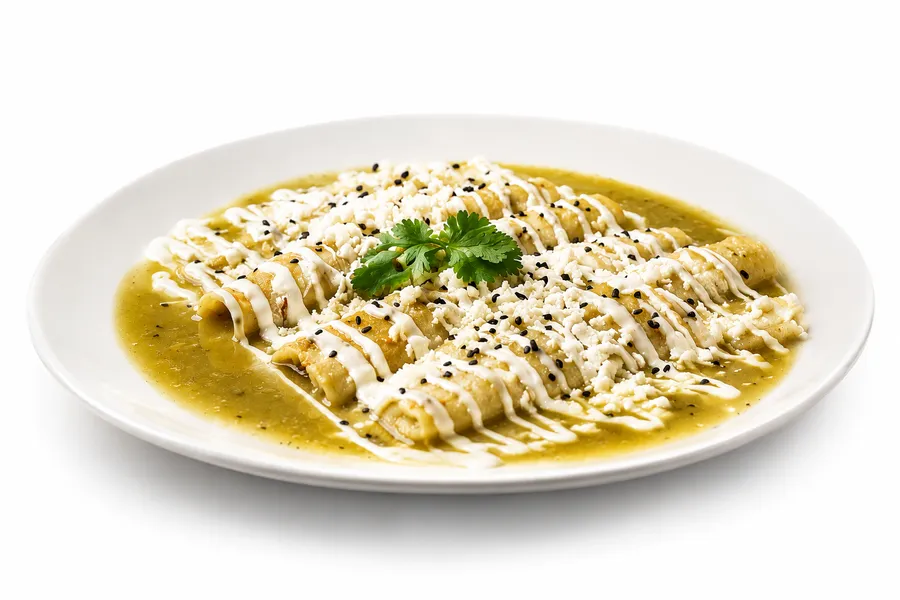
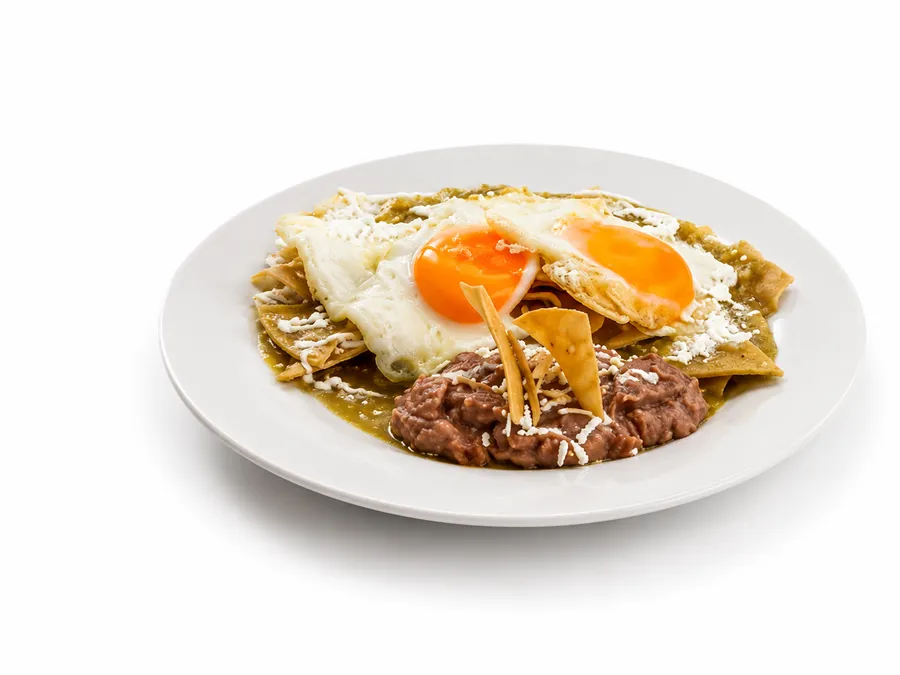
Update layout, styling, and food images

diff --git a/lib/site-data.ts b/lib/site-data.ts
@@ -90,8 +90,8 @@ export const DEFAULT_MENU: MenuData = {
     subtitle: "Selección de la casa",
     icon: "Coffee",
     items: [
-      { id: 2, name: "Huevos al Gusto", price: 90, ingredients: "Salchicha, jamón, estrellados, rancheros, divorciados, a la mexicana, tocino o a la albañil.", group: "Huevos", image: "/IMAGENES COMIDA/huevos 2.webp" },
-      { id: 15, name: "Huevos Mariabela", price: 105, ingredients: "Huevos revueltos bañados en salsa de guajillo.", group: "Huevos", image: "/IMAGENES COMIDA/huevos mexicanos.webp" },
+      { id: 2, name: "Huevos al Gusto", price: 90, ingredients: "Salchicha, jamón, estrellados, rancheros, divorciados, a la mexicana, tocino o a la albañil.", group: "Huevos", image: "/IMAGENES COMIDA/huevos mexicanos.webp" },
+      { id: 15, name: "Huevos Mariabela", price: 105, ingredients: "Huevos revueltos bañados en salsa de guajillo.", group: "Huevos", image: "/IMAGENES COMIDA/huevos mariabela.webp" },
 
       { id: 3, name: "Omelette al Gusto", price: 105, ingredients: "Champiñón, jamón, espinaca, tocino, quesos o chorizo.", group: "Omelettes" },
       { id: 4, name: "Omelette Gourmet", price: 119, ingredients: "Espinaca fresca y queso de cabra.", group: "Omelettes", tags: ["Gourmet"] },
@@ -103,9 +103,9 @@ export const DEFAULT_MENU: MenuData = {
       { id: 9, name: "Chilaquiles", price: 80, ingredients: "Verdes, rojos o divorciados.", group: "Chilaquiles", image: "/IMAGENES COMIDA/chilaquiles.webp" },
       { id: 1, name: "Volcán de Chilaquiles", price: 129, ingredients: "Pan sourdough con orden de chilaquiles, pollo, crema y queso gratinado.", group: "Chilaquiles", tags: ["Estrella"], image: "/IMAGENES COMIDA/volcan.webp" },
 
-      { id: 11, name: "Enchiladas (3 pzas.)", price: 107, ingredients: "Verdes, rojas o divorciadas, rellenas de pollo.", group: "Enchiladas" },
-      { id: 10, name: "Enfrijoladas (3 pzas.)", price: 107, ingredients: "Bañadas en salsa de frijol con crema, queso y aguacate.", group: "Enchiladas" },
-      { id: 12, name: "Enchiladas Suizas (3 pzas.)", price: 135, ingredients: "Cubiertas con salsa suiza, queso gratinado y ajonjolí.", group: "Enchiladas", tags: ["Premium"] },
+      { id: 11, name: "Enchiladas (3 pzas.)", price: 107, ingredients: "Verdes, rojas o divorciadas, rellenas de pollo.", group: "Enchiladas", image: "/IMAGENES COMIDA/enchiladas.webp" },
+      { id: 10, name: "Enfrijoladas (3 pzas.)", price: 107, ingredients: "Bañadas en salsa de frijol con crema, queso y aguacate.", group: "Enchiladas", image: "/IMAGENES COMIDA/enfirjoladas.webp" },
+      { id: 12, name: "Enchiladas Suizas (3 pzas.)", price: 135, ingredients: "Cubiertas con salsa suiza, queso gratinado y ajonjolí.", group: "Enchiladas", tags: ["Premium"], image: "/IMAGENES COMIDA/enchiladas suizas.webp" },
       { id: 201, name: "Enmoladas (3 pzas.)", price: 155, ingredients: "Tres piezas rellenas de pollo bañadas en mole. Acompañadas de crema, queso y cebolla.", group: "Enchiladas" },
 
       { id: 7, name: "Croissant de Jamón", price: 99, ingredients: "Jamón, queso panela, queso manchego, lechuga y jitomate.", group: "Panes & Sándwiches" },
@@ -118,7 +118,7 @@ export const DEFAULT_MENU: MenuData = {
       { id: 22, name: "Pechuga Napolitana", price: 140, ingredients: "Pechuga asada bañada en salsa pomodoro con queso gratinado.", group: "Especialidades", tags: ["Premium"] },
       { id: 20, name: "Wraps", price: 95, ingredients: "Tortilla de harina u hoja de lechuga rellena de jitomate, cebolla, elote, champiñón, atún o pollo.", group: "Especialidades" },
       { id: 18, name: "Sincronizadas", price: 80, ingredients: "Dos tortillas de harina rellenas de jamón y queso manchego, acompañadas de salsa mexicana.", group: "Especialidades" },
-      { id: 19, name: "Tacos Campestres", price: 95, ingredients: "Tres tacos preparados en hoja de lechuga con pollo, champiñón, elote y jitomate.", group: "Especialidades", tags: ["Light"] },
+      { id: 19, name: "Tacos Campestres", price: 95, ingredients: "Tres tacos preparados en hoja de lechuga con pollo, champiñón, elote y jitomate.", group: "Especialidades", tags: ["Light"], image: "/IMAGENES COMIDA/tacos camprestres.webp" },
       { id: 21, name: "Árabe Mariabela", price: 99, ingredients: "Jamón de pavo, queso panela, manzana, lechuga y pepino.", group: "Especialidades" },
       { id: 23, name: "Sopesitos Sencillos (3 pzs.)", price: 85, ingredients: "Frijol refrito, crema, queso y lechuga.", group: "Especialidades", image: "/IMAGENES COMIDA/sopes.webp" },
       { id: 16, name: "Sope Light", price: 95, ingredients: "Nopal con pollo deshebrado, bañado en salsa verde, lechuga y queso.", group: "Especialidades", tags: ["Light"] },
@@ -195,8 +195,8 @@ export const DEFAULT_MENU: MenuData = {
     icon: "Pizza",
     items: [
       { id: 80, name: "Lasaña Boloñesa", price: 195, ingredients: "Receta secreta de la casa con carne de res, pomodoro y mozzarella gratinada.", tags: ["Best Seller"] },
-      { id: 81, name: "Pasta Alfredo", price: 100, ingredients: "Pasta larga con crema, vino blanco y queso parmesano." },
-      { id: 82, name: "Pasta Carbonara", price: 115, ingredients: "Pasta larga con tocino, vino blanco, crema y queso parmesano.", image: "/IMAGENES COMIDA/spaguetti.webp" },
+      { id: 81, name: "Pasta Alfredo", price: 100, ingredients: "Pasta larga con crema, vino blanco y queso parmesano.", image: "/IMAGENES COMIDA/La pasta Alfredo.webp" },
+      { id: 82, name: "Pasta Carbonara", price: 115, ingredients: "Pasta larga con tocino, vino blanco, crema y queso parmesano." },
       { id: 83, name: "Pasta Crema di Funghi", price: 130, ingredients: "Pasta corta en salsa cremosa con vino blanco, queso parmesano y champiñones." },
       { id: 84, name: "Frutti di Mare", price: 170, ingredients: "Camarones y pescado al ajo, vino blanco y queso parmesano.", tags: ["Premium"] },
       { id: 85, name: "Bella Vista", price: 160, ingredients: "Camarones salteados con aceite de oliva, ajo, vino blanco y salsa rosa." },

diff --git a/lib/seo/image-blur.ts b/lib/seo/image-blur.ts
@@ -10,16 +10,19 @@ export const IMAGE_BLUR: Record<string, string> = {
[22 lines of base64/hex data omitted]
 }

diff --git a/app/layout.tsx b/app/layout.tsx
@@ -1,7 +1,6 @@
 import React from "react"
 import type { Metadata } from 'next'
-import { Geist } from 'next/font/google'
-import { Playfair_Display } from 'next/font/google'
+import { Geist, Montserrat } from 'next/font/google'
 import { Analytics } from '@vercel/analytics/next'
 import { Toaster } from '@/components/ui/sonner'
 import JsonLd from '@/components/seo/JsonLd'
@@ -10,8 +9,8 @@ import { BUSINESS, LOCAL_KEYWORDS } from '@/lib/seo/business'
 import { buildGraph, restaurantSchema, organizationAndWebsiteSchema } from '@/lib/seo/schema'
 import './globals.css'
 
-const _geist = Geist({ subsets: ["latin"], display: "swap" });
-const _playfair = Playfair_Display({ subsets: ["latin"], weight: ["400", "500", "600", "700", "800", "900"], display: "swap" });
+const _geist = Geist({ subsets: ["latin"], display: "swap", variable: "--font-geist" });
+const _montserrat = Montserrat({ subsets: ["latin"], weight: ["400", "500", "600", "700"], display: "swap", variable: "--font-montserrat" });
 
 // Datos estructurados globales del negocio (LocalBusiness + Restaurant +
 // Organization + WebSite). Aplican a todo el sitio para el SEO local.
@@ -96,7 +95,7 @@ export default function RootLayout({
         {/* Datos estructurados globales del negocio (SEO local) */}
         <JsonLd data={GLOBAL_JSONLD} />
       </head>
-      <body className={`font-sans antialiased`}>
+      <body className={`${_geist.variable} ${_montserrat.variable} font-sans antialiased`}>
         {children}
         <Toaster richColors position="top-center" />
         <Analytics />

diff --git a/app/globals.css b/app/globals.css
@@ -75,8 +75,8 @@
 }
 
 @theme inline {
-  --font-sans: 'Geist', 'Geist Fallback';
-  --font-serif: 'Playfair Display', 'Georgia', serif;
+  --font-sans: var(--font-geist), 'Geist', 'Geist Fallback', sans-serif;
+  --font-serif: var(--font-montserrat), 'Montserrat', sans-serif;
   --font-mono: 'Geist Mono', 'Geist Mono Fallback';
   
   /* Maria Bela Brand Colors */